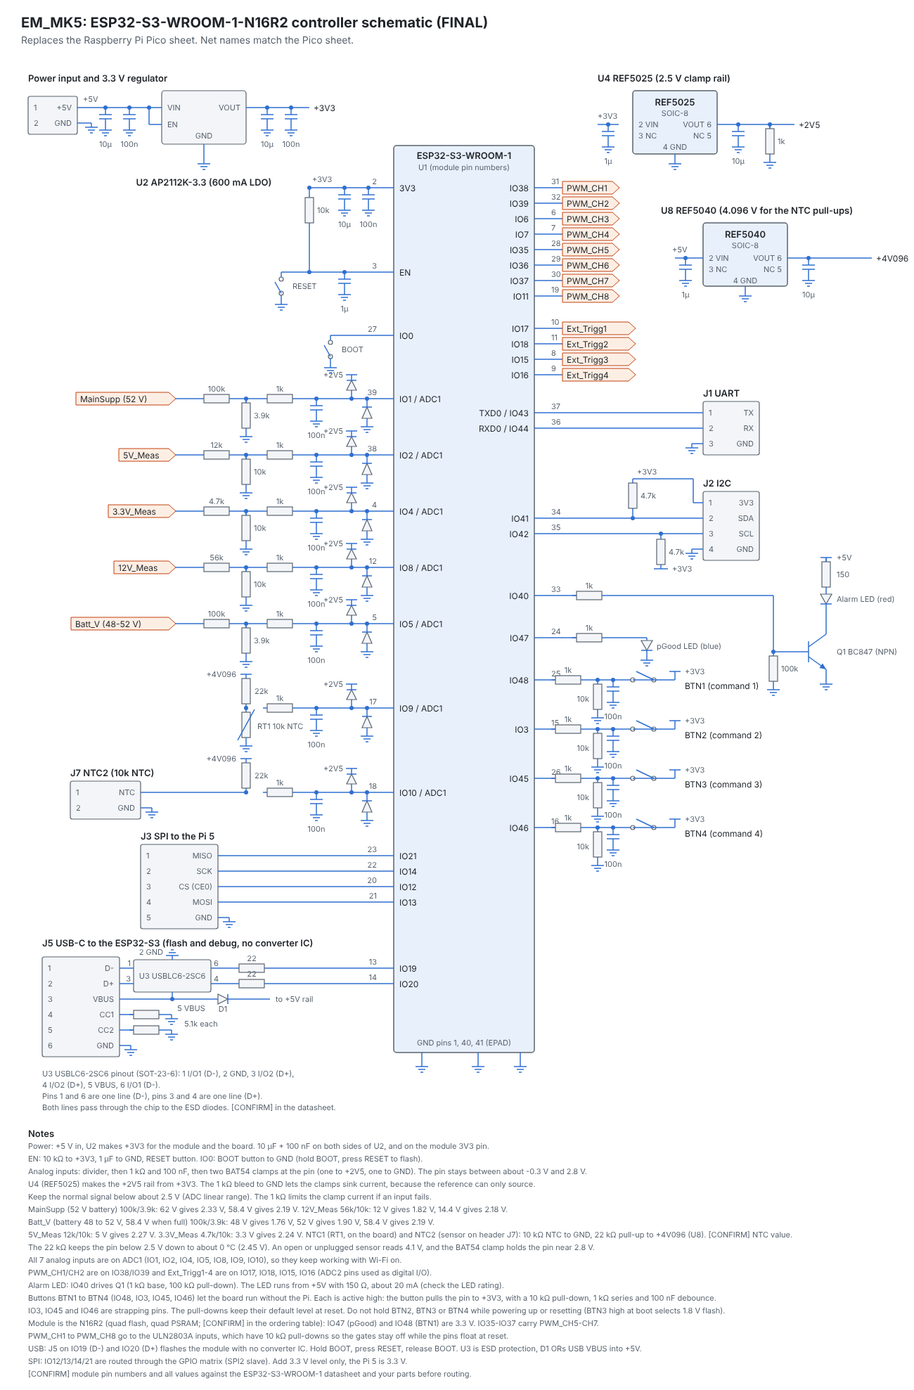
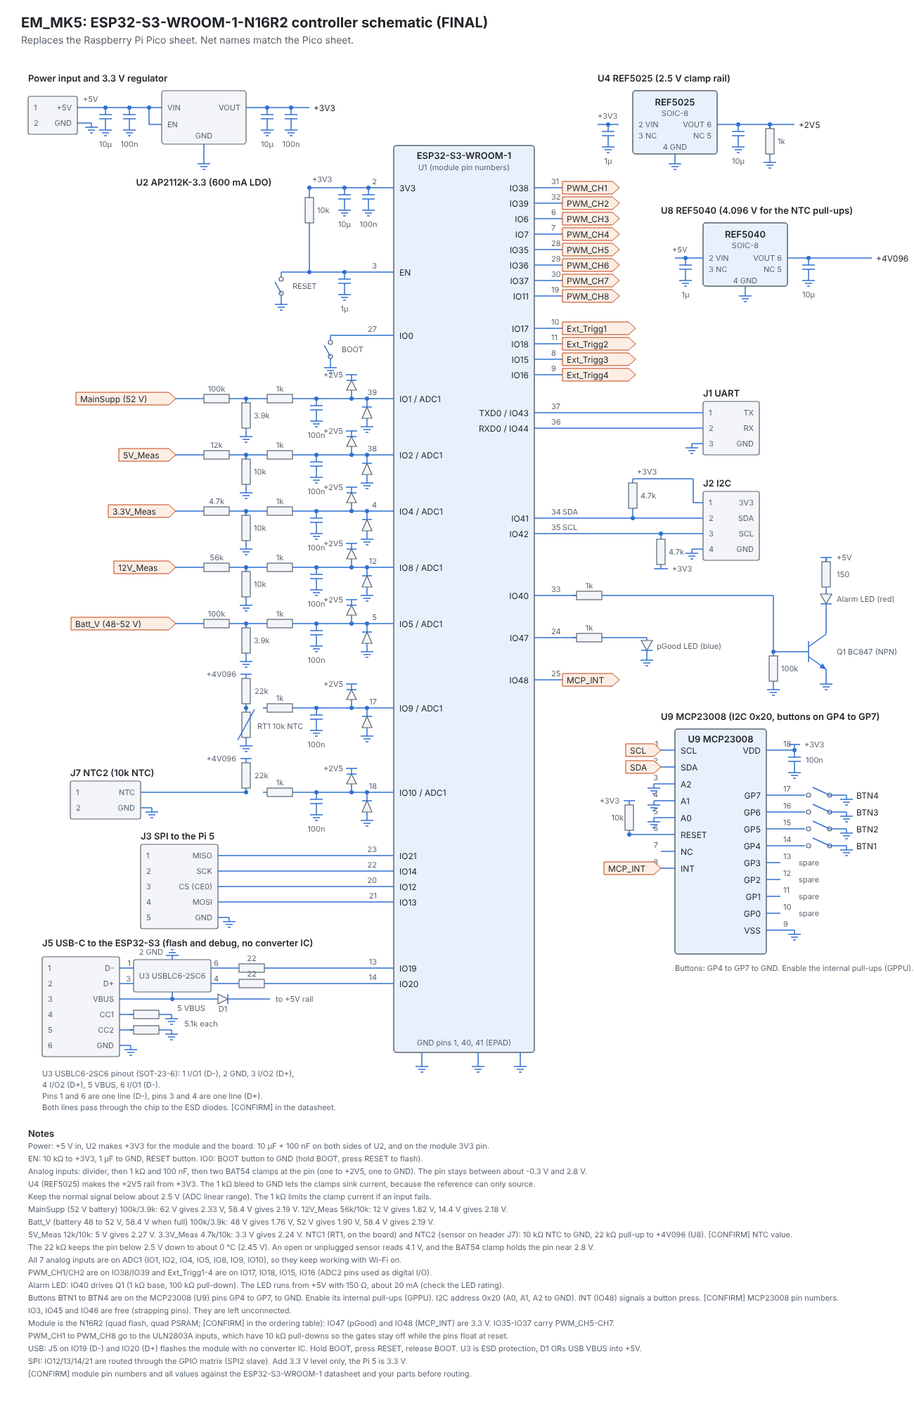
Final schematic: buttons moved to MCP23008 expander on I2C

diff --git a/ESP32_S3_schematic_final.html b/ESP32_S3_schematic_final.html
@@ -8,7 +8,7 @@ svg{width:100%;max-width:1300px;height:auto;display:block;margin:0 auto}
 .c{stroke:var(--bd);stroke-width:1.2;fill:var(--box)}.m{stroke:var(--bd);stroke-width:1.5;fill:var(--mod)}
 .p{stroke:var(--pb);stroke-width:1;fill:var(--port)}
 .t{font-size:12px;fill:var(--t)}.s{font-size:11px;fill:var(--m)}.th{font-size:13px;font-weight:600;fill:var(--t)}.pt{font-size:12px;fill:var(--t)}
-</style></head><body><h1>EM_MK5: ESP32-S3-WROOM-1-N16R2 controller schematic (FINAL)</h1><p class="d">Replaces the Raspberry Pi Pico sheet. Net names match the Pico sheet.</p><svg viewBox="0 0 1300 1900" role="img" aria-label="EM_MK5 ESP32-S3 controller schematic"><rect class="m" x="560" y="130" width="200" height="1290" rx="4"/>
+</style></head><body><h1>EM_MK5: ESP32-S3-WROOM-1-N16R2 controller schematic (FINAL)</h1><p class="d">Replaces the Raspberry Pi Pico sheet. Net names match the Pico sheet.</p><svg viewBox="0 0 1300 1940" role="img" aria-label="EM_MK5 ESP32-S3 controller schematic"><rect class="m" x="560" y="130" width="200" height="1290" rx="4"/>
 <text class="th" x="660.0" y="144" text-anchor="middle" dominant-baseline="central">ESP32-S3-WROOM-1</text>
 <text class="s" x="660.0" y="161" text-anchor="middle" dominant-baseline="central">U1 (module pin numbers)</text>
 <line class="w" x1="600" y1="1420" x2="600" y2="1434"/>
@@ -851,155 +851,161 @@ svg{width:100%;max-width:1300px;height:auto;display:block;margin:0 auto}
 <line class="w" x1="760" y1="890" x2="780" y2="890"/>
 <text class="t" x="752" y="890" text-anchor="end" dominant-baseline="central">IO48</text>
 <text class="s" x="784" y="881" text-anchor="start" dominant-baseline="central">25</text>
-<line class="w" x1="780" y1="890" x2="790" y2="890"/>
-<line class="w" x1="784" y1="890" x2="790" y2="890"/>
-<rect class="c" x="790" y="884" width="36" height="12"/>
-<line class="w" x1="826" y1="890" x2="832" y2="890"/>
-<text class="s" x="808" y="876" text-anchor="middle" dominant-baseline="central">1k</text>
-<line class="w" x1="832" y1="890" x2="930" y2="890"/>
-<circle class="d" cx="850" cy="890" r="3"/>
-<line class="w" x1="850" y1="890" x2="850" y2="896"/>
-<rect class="c" x="844" y="896" width="12" height="36"/>
-<line class="w" x1="850" y1="932" x2="850" y2="938"/>
-<line class="w" x1="850" y1="938" x2="850" y2="944"/>
-<line class="w" x1="841" y1="944" x2="859" y2="944"/>
-<line class="w" x1="845" y1="948" x2="855" y2="948"/>
-<line class="w" x1="848" y1="952" x2="852" y2="952"/>
-<text class="s" x="838" y="917" text-anchor="end" dominant-baseline="central">10k</text>
-<circle class="d" cx="872" cy="890" r="3"/>
-<line class="w" x1="872" y1="890" x2="872" y2="900"/>
-<line class="w" x1="863" y1="900" x2="881" y2="900"/>
-<line class="w" x1="863" y1="906" x2="881" y2="906"/>
-<line class="w" x1="872" y1="906" x2="872" y2="916"/>
-<line class="w" x1="872" y1="916" x2="872" y2="922"/>
-<line class="w" x1="863" y1="922" x2="881" y2="922"/>
-<line class="w" x1="867" y1="926" x2="877" y2="926"/>
-<line class="w" x1="870" y1="930" x2="874" y2="930"/>
-<text class="s" x="872" y="942" text-anchor="middle" dominant-baseline="central">100n</text>
-<circle class="c" cx="900" cy="890" r="3"/><circle class="c" cx="930" cy="890" r="3"/>
-<line class="w" x1="930" y1="890" x2="930" y2="890"/>
-<line class="w" x1="900" y1="890" x2="903" y2="890"/>
-<line class="w" x1="927" y1="890" x2="940" y2="890"/>
-<line class="w" x1="930" y1="890" x2="905" y2="878"/>
-<line class="w" x1="940" y1="890" x2="960" y2="890"/>
-<line class="w" x1="960" y1="890" x2="960" y2="878"/>
-<line class="w" x1="952" y1="878" x2="968" y2="878"/>
-<text class="s" x="974" y="878" text-anchor="start" dominant-baseline="central">+3V3</text>
-<text class="t" x="974" y="898" text-anchor="start" dominant-baseline="central">BTN1 (command 1)</text>
-<line class="w" x1="760" y1="960" x2="780" y2="960"/>
-<text class="t" x="752" y="960" text-anchor="end" dominant-baseline="central">IO3</text>
-<text class="s" x="784" y="951" text-anchor="start" dominant-baseline="central">15</text>
-<line class="w" x1="780" y1="960" x2="790" y2="960"/>
-<line class="w" x1="784" y1="960" x2="790" y2="960"/>
-<rect class="c" x="790" y="954" width="36" height="12"/>
-<line class="w" x1="826" y1="960" x2="832" y2="960"/>
-<text class="s" x="808" y="946" text-anchor="middle" dominant-baseline="central">1k</text>
-<line class="w" x1="832" y1="960" x2="930" y2="960"/>
-<circle class="d" cx="850" cy="960" r="3"/>
-<line class="w" x1="850" y1="960" x2="850" y2="966"/>
-<rect class="c" x="844" y="966" width="12" height="36"/>
-<line class="w" x1="850" y1="1002" x2="850" y2="1008"/>
-<line class="w" x1="850" y1="1008" x2="850" y2="1014"/>
-<line class="w" x1="841" y1="1014" x2="859" y2="1014"/>
-<line class="w" x1="845" y1="1018" x2="855" y2="1018"/>
-<line class="w" x1="848" y1="1022" x2="852" y2="1022"/>
-<text class="s" x="838" y="987" text-anchor="end" dominant-baseline="central">10k</text>
-<circle class="d" cx="872" cy="960" r="3"/>
-<line class="w" x1="872" y1="960" x2="872" y2="970"/>
-<line class="w" x1="863" y1="970" x2="881" y2="970"/>
-<line class="w" x1="863" y1="976" x2="881" y2="976"/>
-<line class="w" x1="872" y1="976" x2="872" y2="986"/>
-<line class="w" x1="872" y1="986" x2="872" y2="992"/>
-<line class="w" x1="863" y1="992" x2="881" y2="992"/>
-<line class="w" x1="867" y1="996" x2="877" y2="996"/>
-<line class="w" x1="870" y1="1000" x2="874" y2="1000"/>
-<text class="s" x="872" y="1012" text-anchor="middle" dominant-baseline="central">100n</text>
-<circle class="c" cx="900" cy="960" r="3"/><circle class="c" cx="930" cy="960" r="3"/>
-<line class="w" x1="930" y1="960" x2="930" y2="960"/>
-<line class="w" x1="900" y1="960" x2="903" y2="960"/>
-<line class="w" x1="927" y1="960" x2="940" y2="960"/>
-<line class="w" x1="930" y1="960" x2="905" y2="948"/>
-<line class="w" x1="940" y1="960" x2="960" y2="960"/>
-<line class="w" x1="960" y1="960" x2="960" y2="948"/>
-<line class="w" x1="952" y1="948" x2="968" y2="948"/>
-<text class="s" x="974" y="948" text-anchor="start" dominant-baseline="central">+3V3</text>
-<text class="t" x="974" y="968" text-anchor="start" dominant-baseline="central">BTN2 (command 2)</text>
-<line class="w" x1="760" y1="1030" x2="780" y2="1030"/>
-<text class="t" x="752" y="1030" text-anchor="end" dominant-baseline="central">IO45</text>
-<text class="s" x="784" y="1021" text-anchor="start" dominant-baseline="central">26</text>
-<line class="w" x1="780" y1="1030" x2="790" y2="1030"/>
-<line class="w" x1="784" y1="1030" x2="790" y2="1030"/>
-<rect class="c" x="790" y="1024" width="36" height="12"/>
-<line class="w" x1="826" y1="1030" x2="832" y2="1030"/>
-<text class="s" x="808" y="1016" text-anchor="middle" dominant-baseline="central">1k</text>
-<line class="w" x1="832" y1="1030" x2="930" y2="1030"/>
-<circle class="d" cx="850" cy="1030" r="3"/>
-<line class="w" x1="850" y1="1030" x2="850" y2="1036"/>
-<rect class="c" x="844" y="1036" width="12" height="36"/>
-<line class="w" x1="850" y1="1072" x2="850" y2="1078"/>
-<line class="w" x1="850" y1="1078" x2="850" y2="1084"/>
-<line class="w" x1="841" y1="1084" x2="859" y2="1084"/>
-<line class="w" x1="845" y1="1088" x2="855" y2="1088"/>
-<line class="w" x1="848" y1="1092" x2="852" y2="1092"/>
-<text class="s" x="838" y="1057" text-anchor="end" dominant-baseline="central">10k</text>
-<circle class="d" cx="872" cy="1030" r="3"/>
-<line class="w" x1="872" y1="1030" x2="872" y2="1040"/>
-<line class="w" x1="863" y1="1040" x2="881" y2="1040"/>
-<line class="w" x1="863" y1="1046" x2="881" y2="1046"/>
-<line class="w" x1="872" y1="1046" x2="872" y2="1056"/>
-<line class="w" x1="872" y1="1056" x2="872" y2="1062"/>
-<line class="w" x1="863" y1="1062" x2="881" y2="1062"/>
-<line class="w" x1="867" y1="1066" x2="877" y2="1066"/>
-<line class="w" x1="870" y1="1070" x2="874" y2="1070"/>
-<text class="s" x="872" y="1082" text-anchor="middle" dominant-baseline="central">100n</text>
-<circle class="c" cx="900" cy="1030" r="3"/><circle class="c" cx="930" cy="1030" r="3"/>
-<line class="w" x1="930" y1="1030" x2="930" y2="1030"/>
-<line class="w" x1="900" y1="1030" x2="903" y2="1030"/>
-<line class="w" x1="927" y1="1030" x2="940" y2="1030"/>
-<line class="w" x1="930" y1="1030" x2="905" y2="1018"/>
-<line class="w" x1="940" y1="1030" x2="960" y2="1030"/>
-<line class="w" x1="960" y1="1030" x2="960" y2="1018"/>
-<line class="w" x1="952" y1="1018" x2="968" y2="1018"/>
-<text class="s" x="974" y="1018" text-anchor="start" dominant-baseline="central">+3V3</text>
-<text class="t" x="974" y="1038" text-anchor="start" dominant-baseline="central">BTN3 (command 3)</text>
-<line class="w" x1="760" y1="1100" x2="780" y2="1100"/>
-<text class="t" x="752" y="1100" text-anchor="end" dominant-baseline="central">IO46</text>
-<text class="s" x="784" y="1091" text-anchor="start" dominant-baseline="central">16</text>
-<line class="w" x1="780" y1="1100" x2="790" y2="1100"/>
-<line class="w" x1="784" y1="1100" x2="790" y2="1100"/>
-<rect class="c" x="790" y="1094" width="36" height="12"/>
-<line class="w" x1="826" y1="1100" x2="832" y2="1100"/>
-<text class="s" x="808" y="1086" text-anchor="middle" dominant-baseline="central">1k</text>
-<line class="w" x1="832" y1="1100" x2="930" y2="1100"/>
-<circle class="d" cx="850" cy="1100" r="3"/>
-<line class="w" x1="850" y1="1100" x2="850" y2="1106"/>
-<rect class="c" x="844" y="1106" width="12" height="36"/>
-<line class="w" x1="850" y1="1142" x2="850" y2="1148"/>
-<line class="w" x1="850" y1="1148" x2="850" y2="1154"/>
-<line class="w" x1="841" y1="1154" x2="859" y2="1154"/>
-<line class="w" x1="845" y1="1158" x2="855" y2="1158"/>
-<line class="w" x1="848" y1="1162" x2="852" y2="1162"/>
-<text class="s" x="838" y="1127" text-anchor="end" dominant-baseline="central">10k</text>
-<circle class="d" cx="872" cy="1100" r="3"/>
-<line class="w" x1="872" y1="1100" x2="872" y2="1110"/>
-<line class="w" x1="863" y1="1110" x2="881" y2="1110"/>
-<line class="w" x1="863" y1="1116" x2="881" y2="1116"/>
-<line class="w" x1="872" y1="1116" x2="872" y2="1126"/>
-<line class="w" x1="872" y1="1126" x2="872" y2="1132"/>
-<line class="w" x1="863" y1="1132" x2="881" y2="1132"/>
-<line class="w" x1="867" y1="1136" x2="877" y2="1136"/>
-<line class="w" x1="870" y1="1140" x2="874" y2="1140"/>
-<text class="s" x="872" y="1152" text-anchor="middle" dominant-baseline="central">100n</text>
-<circle class="c" cx="900" cy="1100" r="3"/><circle class="c" cx="930" cy="1100" r="3"/>
-<line class="w" x1="930" y1="1100" x2="930" y2="1100"/>
-<line class="w" x1="900" y1="1100" x2="903" y2="1100"/>
-<line class="w" x1="927" y1="1100" x2="940" y2="1100"/>
-<line class="w" x1="930" y1="1100" x2="905" y2="1088"/>
-<line class="w" x1="940" y1="1100" x2="960" y2="1100"/>
-<line class="w" x1="960" y1="1100" x2="960" y2="1088"/>
-<line class="w" x1="952" y1="1088" x2="968" y2="1088"/>
-<text class="s" x="974" y="1088" text-anchor="start" dominant-baseline="central">+3V3</text>
-<text class="t" x="974" y="1108" text-anchor="start" dominant-baseline="central">BTN4 (command 4)</text>
+<line class="w" x1="780" y1="890" x2="800" y2="890"/>
+<polygon class="p" points="800,881 871,881 881,890 871,899 800,899"/>
+<text class="pt" x="806" y="890" text-anchor="start" dominant-baseline="central">MCP_INT</text>
+<text class="s" x="800" y="651" text-anchor="start" dominant-baseline="central">SDA</text>
+<text class="s" x="800" y="673" text-anchor="start" dominant-baseline="central">SCL</text>
+<g transform="translate(0,90)">
+<text class="th" x="940" y="852" text-anchor="start" dominant-baseline="central">U9 MCP23008 (I2C 0x20, buttons on GP4 to GP7)</text>
+<rect class="m" x="960" y="870" width="130" height="320" rx="4"/>
+<text class="th" x="1025" y="884" text-anchor="middle" dominant-baseline="central">U9 MCP23008</text>
+<line class="w" x1="940" y1="900" x2="960" y2="900"/>
+<text class="t" x="968" y="900" text-anchor="start" dominant-baseline="central">SCL</text>
+<text class="s" x="936" y="891" text-anchor="end" dominant-baseline="central">1</text>
+<polygon class="p" points="890,891 930,891 940,900 930,909 890,909"/>
+<text class="pt" x="896" y="900" text-anchor="start" dominant-baseline="central">SCL</text>
+<line class="w" x1="940" y1="924" x2="960" y2="924"/>
+<text class="t" x="968" y="924" text-anchor="start" dominant-baseline="central">SDA</text>
+<text class="s" x="936" y="915" text-anchor="end" dominant-baseline="central">2</text>
+<polygon class="p" points="890,915 930,915 940,924 930,933 890,933"/>
+<text class="pt" x="896" y="924" text-anchor="start" dominant-baseline="central">SDA</text>
+<line class="w" x1="940" y1="948" x2="960" y2="948"/>
+<text class="t" x="968" y="948" text-anchor="start" dominant-baseline="central">A2</text>
+<text class="s" x="936" y="939" text-anchor="end" dominant-baseline="central">3</text>
+<line class="w" x1="940" y1="948" x2="930" y2="948"/>
+<line class="w" x1="930" y1="948" x2="930" y2="954"/>
+<line class="w" x1="921" y1="954" x2="939" y2="954"/>
+<line class="w" x1="925" y1="958" x2="935" y2="958"/>
+<line class="w" x1="928" y1="962" x2="932" y2="962"/>
+<line class="w" x1="940" y1="972" x2="960" y2="972"/>
+<text class="t" x="968" y="972" text-anchor="start" dominant-baseline="central">A1</text>
+<text class="s" x="936" y="963" text-anchor="end" dominant-baseline="central">4</text>
+<line class="w" x1="940" y1="972" x2="930" y2="972"/>
+<line class="w" x1="930" y1="972" x2="930" y2="978"/>
+<line class="w" x1="921" y1="978" x2="939" y2="978"/>
+<line class="w" x1="925" y1="982" x2="935" y2="982"/>
+<line class="w" x1="928" y1="986" x2="932" y2="986"/>
+<line class="w" x1="940" y1="996" x2="960" y2="996"/>
+<text class="t" x="968" y="996" text-anchor="start" dominant-baseline="central">A0</text>
+<text class="s" x="936" y="987" text-anchor="end" dominant-baseline="central">5</text>
+<line class="w" x1="940" y1="996" x2="930" y2="996"/>
+<line class="w" x1="930" y1="996" x2="930" y2="1002"/>
+<line class="w" x1="921" y1="1002" x2="939" y2="1002"/>
+<line class="w" x1="925" y1="1006" x2="935" y2="1006"/>
+<line class="w" x1="928" y1="1010" x2="932" y2="1010"/>
+<line class="w" x1="940" y1="1020" x2="960" y2="1020"/>
+<text class="t" x="968" y="1020" text-anchor="start" dominant-baseline="central">RESET</text>
+<text class="s" x="936" y="1011" text-anchor="end" dominant-baseline="central">6</text>
+<line class="w" x1="940" y1="1020" x2="895" y2="1020"/>
+<circle class="d" cx="895" cy="1020" r="3"/>
+<line class="w" x1="895" y1="972" x2="895" y2="978"/>
+<rect class="c" x="889" y="978" width="12" height="36"/>
+<line class="w" x1="895" y1="1014" x2="895" y2="1020"/>
+<text class="s" x="906" y="996" text-anchor="start" dominant-baseline="central"></text>
+<text class="s" x="887" y="996" text-anchor="end" dominant-baseline="central">10k</text>
+<line class="w" x1="887" y1="972" x2="903" y2="972"/>
+<text class="s" x="881" y="972" text-anchor="end" dominant-baseline="central">+3V3</text>
+<line class="w" x1="940" y1="1044" x2="960" y2="1044"/>
+<text class="t" x="968" y="1044" text-anchor="start" dominant-baseline="central">NC</text>
+<text class="s" x="936" y="1035" text-anchor="end" dominant-baseline="central">7</text>
+<line class="w" x1="940" y1="1068" x2="960" y2="1068"/>
+<text class="t" x="968" y="1068" text-anchor="start" dominant-baseline="central">INT</text>
+<text class="s" x="936" y="1059" text-anchor="end" dominant-baseline="central">8</text>
+<polygon class="p" points="859,1059 930,1059 940,1068 930,1077 859,1077"/>
+<text class="pt" x="865" y="1068" text-anchor="start" dominant-baseline="central">MCP_INT</text>
+<line class="w" x1="1090" y1="900" x2="1110" y2="900"/>
+<text class="t" x="1082" y="900" text-anchor="end" dominant-baseline="central">VDD</text>
+<text class="s" x="1114" y="891" text-anchor="start" dominant-baseline="central">18</text>
+<line class="w" x1="1110" y1="900" x2="1130" y2="900"/>
+<circle class="d" cx="1130" cy="900" r="3"/>
+<line class="w" x1="1130" y1="900" x2="1130" y2="892"/>
+<line class="w" x1="1122" y1="892" x2="1138" y2="892"/>
+<text class="s" x="1144" y="892" text-anchor="start" dominant-baseline="central">+3V3</text>
+<line class="w" x1="1130" y1="900" x2="1130" y2="910"/>
+<line class="w" x1="1121" y1="910" x2="1139" y2="910"/>
+<line class="w" x1="1121" y1="916" x2="1139" y2="916"/>
+<line class="w" x1="1130" y1="916" x2="1130" y2="926"/>
+<line class="w" x1="1130" y1="926" x2="1130" y2="932"/>
+<line class="w" x1="1121" y1="932" x2="1139" y2="932"/>
+<line class="w" x1="1125" y1="936" x2="1135" y2="936"/>
+<line class="w" x1="1128" y1="940" x2="1132" y2="940"/>
+<text class="s" x="1130" y="952" text-anchor="middle" dominant-baseline="central"></text>
+<text class="s" x="1146" y="914" text-anchor="start" dominant-baseline="central">100n</text>
+<line class="w" x1="1090" y1="964" x2="1110" y2="964"/>
+<text class="t" x="1082" y="964" text-anchor="end" dominant-baseline="central">GP7</text>
+<text class="s" x="1114" y="955" text-anchor="start" dominant-baseline="central">17</text>
+<line class="w" x1="1110" y1="964" x2="1145" y2="964"/>
+<circle class="c" cx="1150" cy="964" r="3"/><circle class="c" cx="1180" cy="964" r="3"/>
+<line class="w" x1="1180" y1="964" x2="1204" y2="964"/>
+<line class="w" x1="1204" y1="964" x2="1204" y2="970"/>
+<line class="w" x1="1195" y1="970" x2="1213" y2="970"/>
+<line class="w" x1="1199" y1="974" x2="1209" y2="974"/>
+<line class="w" x1="1202" y1="978" x2="1206" y2="978"/>
+<line class="w" x1="1180" y1="964" x2="1156" y2="953"/>
+<text class="t" x="1218" y="964" text-anchor="start" dominant-baseline="central">BTN4</text>
+<line class="w" x1="1090" y1="988" x2="1110" y2="988"/>
+<text class="t" x="1082" y="988" text-anchor="end" dominant-baseline="central">GP6</text>
+<text class="s" x="1114" y="979" text-anchor="start" dominant-baseline="central">16</text>
+<line class="w" x1="1110" y1="988" x2="1145" y2="988"/>
+<circle class="c" cx="1150" cy="988" r="3"/><circle class="c" cx="1180" cy="988" r="3"/>
+<line class="w" x1="1180" y1="988" x2="1204" y2="988"/>
+<line class="w" x1="1204" y1="988" x2="1204" y2="994"/>
+<line class="w" x1="1195" y1="994" x2="1213" y2="994"/>
+<line class="w" x1="1199" y1="998" x2="1209" y2="998"/>
+<line class="w" x1="1202" y1="1002" x2="1206" y2="1002"/>
+<line class="w" x1="1180" y1="988" x2="1156" y2="977"/>
+<text class="t" x="1218" y="988" text-anchor="start" dominant-baseline="central">BTN3</text>
+<line class="w" x1="1090" y1="1012" x2="1110" y2="1012"/>
+<text class="t" x="1082" y="1012" text-anchor="end" dominant-baseline="central">GP5</text>
+<text class="s" x="1114" y="1003" text-anchor="start" dominant-baseline="central">15</text>
+<line class="w" x1="1110" y1="1012" x2="1145" y2="1012"/>
+<circle class="c" cx="1150" cy="1012" r="3"/><circle class="c" cx="1180" cy="1012" r="3"/>
+<line class="w" x1="1180" y1="1012" x2="1204" y2="1012"/>
+<line class="w" x1="1204" y1="1012" x2="1204" y2="1018"/>
+<line class="w" x1="1195" y1="1018" x2="1213" y2="1018"/>
+<line class="w" x1="1199" y1="1022" x2="1209" y2="1022"/>
+<line class="w" x1="1202" y1="1026" x2="1206" y2="1026"/>
+<line class="w" x1="1180" y1="1012" x2="1156" y2="1001"/>
+<text class="t" x="1218" y="1012" text-anchor="start" dominant-baseline="central">BTN2</text>
+<line class="w" x1="1090" y1="1036" x2="1110" y2="1036"/>
+<text class="t" x="1082" y="1036" text-anchor="end" dominant-baseline="central">GP4</text>
+<text class="s" x="1114" y="1027" text-anchor="start" dominant-baseline="central">14</text>
+<line class="w" x1="1110" y1="1036" x2="1145" y2="1036"/>
+<circle class="c" cx="1150" cy="1036" r="3"/><circle class="c" cx="1180" cy="1036" r="3"/>
+<line class="w" x1="1180" y1="1036" x2="1204" y2="1036"/>
+<line class="w" x1="1204" y1="1036" x2="1204" y2="1042"/>
+<line class="w" x1="1195" y1="1042" x2="1213" y2="1042"/>
+<line class="w" x1="1199" y1="1046" x2="1209" y2="1046"/>
+<line class="w" x1="1202" y1="1050" x2="1206" y2="1050"/>
+<line class="w" x1="1180" y1="1036" x2="1156" y2="1025"/>
+<text class="t" x="1218" y="1036" text-anchor="start" dominant-baseline="central">BTN1</text>
+<line class="w" x1="1090" y1="1060" x2="1110" y2="1060"/>
+<text class="t" x="1082" y="1060" text-anchor="end" dominant-baseline="central">GP3</text>
+<text class="s" x="1114" y="1051" text-anchor="start" dominant-baseline="central">13</text>
+<text class="s" x="1136" y="1060" text-anchor="start" dominant-baseline="central">spare</text>
+<line class="w" x1="1090" y1="1084" x2="1110" y2="1084"/>
+<text class="t" x="1082" y="1084" text-anchor="end" dominant-baseline="central">GP2</text>
+<text class="s" x="1114" y="1075" text-anchor="start" dominant-baseline="central">12</text>
+<text class="s" x="1136" y="1084" text-anchor="start" dominant-baseline="central">spare</text>
+<line class="w" x1="1090" y1="1108" x2="1110" y2="1108"/>
+<text class="t" x="1082" y="1108" text-anchor="end" dominant-baseline="central">GP1</text>
+<text class="s" x="1114" y="1099" text-anchor="start" dominant-baseline="central">11</text>
+<text class="s" x="1136" y="1108" text-anchor="start" dominant-baseline="central">spare</text>
+<line class="w" x1="1090" y1="1132" x2="1110" y2="1132"/>
+<text class="t" x="1082" y="1132" text-anchor="end" dominant-baseline="central">GP0</text>
+<text class="s" x="1114" y="1123" text-anchor="start" dominant-baseline="central">10</text>
+<text class="s" x="1136" y="1132" text-anchor="start" dominant-baseline="central">spare</text>
+<line class="w" x1="1090" y1="1156" x2="1110" y2="1156"/>
+<text class="t" x="1082" y="1156" text-anchor="end" dominant-baseline="central">VSS</text>
+<text class="s" x="1114" y="1147" text-anchor="start" dominant-baseline="central">9</text>
+<line class="w" x1="1110" y1="1156" x2="1130" y2="1156"/>
+<line class="w" x1="1130" y1="1156" x2="1130" y2="1162"/>
+<line class="w" x1="1121" y1="1162" x2="1139" y2="1162"/>
+<line class="w" x1="1125" y1="1166" x2="1135" y2="1166"/>
+<line class="w" x1="1128" y1="1170" x2="1132" y2="1170"/>
+<text class="s" x="960" y="1210" text-anchor="start" dominant-baseline="central">Buttons: GP4 to GP7 to GND. Enable the internal pull-ups (GPPU).</text>
+</g>
 <g transform="translate(0,330)">
 <text class="th" x="60" y="934" text-anchor="start" dominant-baseline="central">J5 USB-C to the ESP32-S3 (flash and debug, no converter IC)</text>
 <rect class="c" x="60" y="954" width="110" height="142" rx="3"/>
@@ -1100,9 +1106,9 @@ svg{width:100%;max-width:1300px;height:auto;display:block;margin:0 auto}
 <text class="s" x="40" y="1715" text-anchor="start" dominant-baseline="central">All 7 analog inputs are on ADC1 (IO1, IO2, IO4, IO5, IO8, IO9, IO10), so they keep working with Wi-Fi on.</text>
 <text class="s" x="40" y="1733" text-anchor="start" dominant-baseline="central">PWM_CH1/CH2 are on IO38/IO39 and Ext_Trigg1-4 are on IO17, IO18, IO15, IO16 (ADC2 pins used as digital I/O).</text>
 <text class="s" x="40" y="1751" text-anchor="start" dominant-baseline="central">Alarm LED: IO40 drives Q1 (1 kΩ base, 100 kΩ pull-down). The LED runs from +5V with 150 Ω, about 20 mA (check the LED rating).</text>
-<text class="s" x="40" y="1769" text-anchor="start" dominant-baseline="central">Buttons BTN1 to BTN4 (IO48, IO3, IO45, IO46) let the board run without the Pi. Each is active high: the button pulls the pin to +3V3, with a 10 kΩ pull-down, 1 kΩ series and 100 nF debounce.</text>
-<text class="s" x="40" y="1787" text-anchor="start" dominant-baseline="central">IO3, IO45 and IO46 are strapping pins. The pull-downs keep their default level at reset. Do not hold BTN2, BTN3 or BTN4 while powering up or resetting (BTN3 high at boot selects 1.8 V flash).</text>
-<text class="s" x="40" y="1805" text-anchor="start" dominant-baseline="central">Module is the N16R2 (quad flash, quad PSRAM; [CONFIRM] in the ordering table): IO47 (pGood) and IO48 (BTN1) are 3.3 V. IO35-IO37 carry PWM_CH5-CH7.</text>
+<text class="s" x="40" y="1769" text-anchor="start" dominant-baseline="central">Buttons BTN1 to BTN4 are on the MCP23008 (U9) pins GP4 to GP7, to GND. Enable its internal pull-ups (GPPU). I2C address 0x20 (A0, A1, A2 to GND). INT (IO48) signals a button press. [CONFIRM] MCP23008 pin numbers.</text>
+<text class="s" x="40" y="1787" text-anchor="start" dominant-baseline="central">IO3, IO45 and IO46 are free (strapping pins). They are left unconnected.</text>
+<text class="s" x="40" y="1805" text-anchor="start" dominant-baseline="central">Module is the N16R2 (quad flash, quad PSRAM; [CONFIRM] in the ordering table): IO47 (pGood) and IO48 (MCP_INT) are 3.3 V. IO35-IO37 carry PWM_CH5-CH7.</text>
 <text class="s" x="40" y="1823" text-anchor="start" dominant-baseline="central">PWM_CH1 to PWM_CH8 go to the ULN2803A inputs, which have 10 kΩ pull-downs so the gates stay off while the pins float at reset.</text>
 <text class="s" x="40" y="1841" text-anchor="start" dominant-baseline="central">USB: J5 on IO19 (D-) and IO20 (D+) flashes the module with no converter IC. Hold BOOT, press RESET, release BOOT. U3 is ESD protection, D1 ORs USB VBUS into +5V.</text>
 <text class="s" x="40" y="1859" text-anchor="start" dominant-baseline="central">SPI: IO12/13/14/21 are routed through the GPIO matrix (SPI2 slave). Add 3.3 V level only, the Pi 5 is 3.3 V.</text>

diff --git a/ESP32_S3_pinout.md b/ESP32_S3_pinout.md
@@ -47,3 +47,4 @@ ESP32-S3-WROOM-1 module datasheet before routing the board.
 - NTC1 is a 10 kΩ NTC (RT1) mounted on the board (no header). NTC2 stays on header J7 for the radiator sensor.
 - Alarm LED (IO40) now drives an NPN (BC847, 1 kΩ base, 100 kΩ pull-down). LED from +5V with 150 Ω, about 20 mA.
 - LEDs: only Alarm (IO40, transistor) and pGood (IO47). The Status LED and User LEDs were removed. IO48, IO3, IO45, IO46 are now buttons BTN1 to BTN4 (active high: button to +3V3, 10 kΩ pull-down, 1 kΩ series, 100 nF) for running without the Pi. Do not hold BTN2 to BTN4 at power-up or reset (strapping pins).
+- Buttons moved to an MCP23008 I2C expander (U9, address 0x20, GP4 to GP7, BTN1 to BTN4), on the ESP32 I2C bus (IO41/IO42). INT goes to IO48 (MCP_INT). IO3, IO45, IO46 are free again. The user plans to use freed ESP32 pins as SPI chip selects (to be defined).
